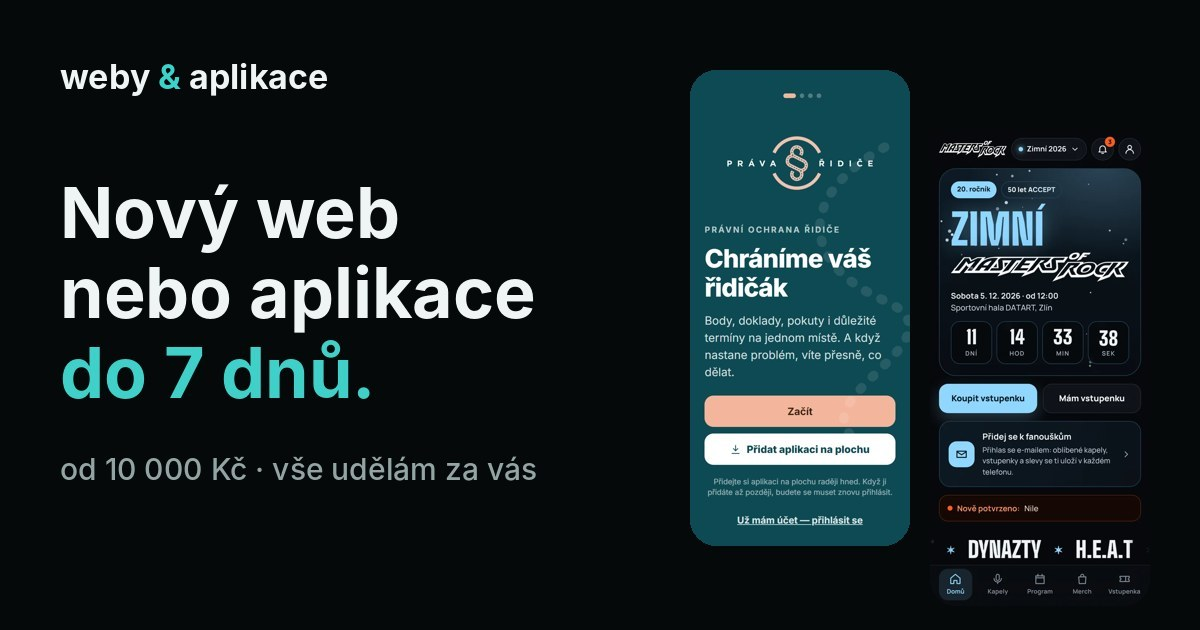
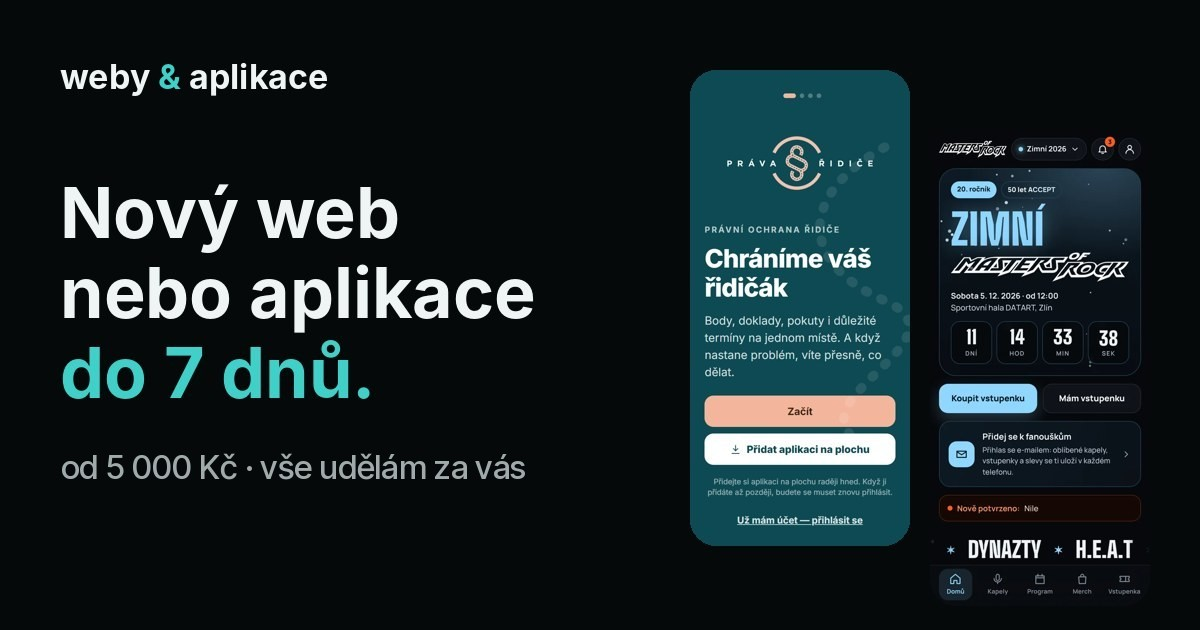
Ceny od 5 000 Kč, rozpis jednoduchý/standardní, SEO titulky a obrázek pro sdílení
Claude-Session: https://claude.ai/code/session_01XGmG35iuPCzjPgGgZyDaJQ

Changed region(s): [[0.0308, 0.7238, 0.4625, 0.7841]]

diff --git a/cenik.html b/cenik.html
@@ -3,8 +3,8 @@
 <head>
 <meta charset="utf-8">
 <meta name="viewport" content="width=device-width, initial-scale=1">
-<title>Ceník webů a PWA aplikací od 10 000 Kč | Weby a aplikace</title>
-<meta name="description" content="Nový web i PWA aplikace od 10 000 Kč, cenu znáte předem. Správa a úpravy po spuštění, postup tvorby do 7 dnů a odpovědi na časté otázky.">
+<title>Ceník: levný web a PWA aplikace od 5 000 Kč | Weby a aplikace</title>
+<meta name="description" content="Kolik stojí web nebo PWA aplikace? Jednoduchý web nebo aplikace od 5 000 Kč, standardní obvykle 10 000 Kč. Cenu znáte předem. Správa, postup a časté otázky.">
 <meta name="author" content="Nela Mizera">
 <link rel="canonical" href="https://webyaplikace.cz/cenik.html">
 <meta property="og:url" content="https://webyaplikace.cz/cenik.html">
@@ -13,7 +13,7 @@
 <meta name="robots" content="index, follow, max-image-preview:large">
 <meta property="og:type" content="website">
 <meta property="og:locale" content="cs_CZ">
-<meta property="og:title" content="Ceník webů a PWA aplikací od 10 000 Kč | Weby a aplikace">
+<meta property="og:title" content="Ceník: levný web a PWA aplikace od 5 000 Kč | Weby a aplikace">
 <meta property="og:description" content="Weby a aplikace na míru, které vypadají draze a stojí rozumně. Ukázky: aplikace Práva řidiče, Sonia Edde, Mizerná (nejen) artritida, Masters of Rock, Revma deník.">
 <meta property="og:image" content="https://webyaplikace.cz/img/og.jpg">
 <meta property="og:image:width" content="1200">
@@ -454,6 +454,8 @@ h1.h2{font-size:clamp(38px,6vw,80px)}
 .ft-chips span.more{background:transparent;color:var(--ink);border:1px dashed #ffffff44;box-shadow:none}
 @media(max-width:900px){.picks,.trio{grid-template-columns:1fr}.mini-steps{grid-template-columns:repeat(2,minmax(0,1fr))}}
 @media(max-width:520px){.mini-steps{grid-template-columns:1fr}.mini-steps li{display:grid;grid-template-columns:38px 1fr;gap:0 14px;padding:18px}.mini-steps b{grid-row:span 2;margin:0}}
+.tiers{display:grid;gap:8px;margin:18px 0 6px}.tiers div{display:flex;justify-content:space-between;align-items:center;gap:14px;padding:14px 16px;border-radius:16px;background:#ffffff08;border:1px solid var(--line)}.tiers span{display:flex;flex-direction:column;gap:2px}.tiers b{font-size:16px}.tiers small{color:var(--mute);font-size:13.5px;line-height:1.35}.tiers em{font-style:normal;font-weight:700;color:var(--teal);white-space:nowrap;font-size:15px}
+@media(max-width:420px){.tiers div{flex-direction:column;align-items:flex-start}}
 </style>
 <script type="application/ld+json">
 {
@@ -464,10 +466,10 @@ h1.h2{font-size:clamp(38px,6vw,80px)}
    "mainEntity": [
     {
      "@type": "Question",
-     "name": "Kolik stojí nový web?",
+     "name": "Kolik stojí nový web nebo aplikace?",
      "acceptedAnswer": {
       "@type": "Answer",
-      "text": "Nový web i PWA aplikace začínají na 10 000 Kč. Přesnou cenu znáte předem, ještě než začnu pracovat."
+      "text": "Jednoduchý web nebo jednoduchá aplikace začínají na 5 000 Kč, standardní web i aplikace stojí obvykle kolem 10 000 Kč. Přesnou cenu znáte předem, ještě než začnu pracovat."
      }
     },
     {
@@ -528,7 +530,7 @@ h1.h2{font-size:clamp(38px,6vw,80px)}
     },
     {
      "@type": "Question",
-     "name": "Děláte weby a aplikace i pro neziskové organizace?",
+     "name": "Děláte web nebo aplikaci i zdarma?",
      "acceptedAnswer": {
       "@type": "Answer",
       "text": "Ano. Neziskovým organizacím, pacientským spolkům a projektům, které pomáhají lidem, udělám web nebo aplikaci jen za náklady, nebo i zdarma."
@@ -586,16 +588,16 @@ h1.h2{font-size:clamp(38px,6vw,80px)}
       <div class="plan star rv"><div>
         <span class="badge">Nejčastější volba</span>
         <h3 style="margin-top:20px">Nový web</h3>
-        <div class="big"><small>od </small>10&nbsp;000&nbsp;Kč</div>
+        <div class="big"><small>od </small>5&nbsp;000&nbsp;Kč</div>
         <p class="sub">Web na míru pro firmu, živnost, osobní značku nebo projekt.</p>
-        <ul class="checks"><li>Design, texty a animace</li><li>Mobilní verze a technické SEO</li><li>Poptávkový nebo objednávkový formulář</li><li>Hotovo do 7 dnů od odsouhlasení</li></ul>
+        <div class="tiers"><div><span><b>Jednoduchý web</b><small>Jednostránkový web nebo vizitka, kontakt, mobilní verze</small></span><em>od 5&nbsp;000&nbsp;Kč</em></div><div><span><b>Standardní web</b><small>Více stránek, formulář, animace, SEO</small></span><em>obvykle 10&nbsp;000&nbsp;Kč</em></div></div><ul class="checks"><li>Design, texty a animace</li><li>Mobilní verze a technické SEO</li><li>Poptávkový nebo objednávkový formulář</li><li>Hotovo do 7 dnů od odsouhlasení</li></ul>
       </div></div>
       <div class="plan rv"><div>
         <span class="badge" style="background:var(--teal);color:#031312">Bez App Storu</span>
         <h3 style="margin-top:20px">PWA aplikace</h3>
-        <div class="big"><small>od </small>10&nbsp;000&nbsp;Kč</div>
+        <div class="big"><small>od </small>5&nbsp;000&nbsp;Kč</div>
         <p class="sub">Mobilní aplikace pro iPhone i Android, instalace přímo z webu.</p>
-        <ul class="checks"><li>Ikona na ploše telefonu</li><li>Offline režim a připomínky</li><li>Okamžité aktualizace bez schvalování</li><li>Hotovo do 7 dnů od odsouhlasení</li></ul>
+        <div class="tiers"><div><span><b>Jednoduchá aplikace</b><small>Jedna hlavní funkce, třeba věrnostní karta nebo rezervace</small></span><em>od 5&nbsp;000&nbsp;Kč</em></div><div><span><b>Standardní aplikace</b><small>Více funkcí, upozornění, offline režim</small></span><em>obvykle 10&nbsp;000&nbsp;Kč</em></div></div><ul class="checks"><li>Ikona na ploše telefonu</li><li>Offline režim a připomínky</li><li>Okamžité aktualizace bez schvalování</li><li>Hotovo do 7 dnů od odsouhlasení</li></ul>
       </div></div>
     </div>
     <p class="rv" style="color:var(--mute);margin-top:22px;font-size:15px">Konečná cena záleží na rozsahu: počtu stránek, funkcích (rezervace, objednávky, přihlášení) a na tom, jestli dodáte texty a fotky, nebo s nimi pomůžu.</p>
@@ -638,7 +640,7 @@ h1.h2{font-size:clamp(38px,6vw,80px)}
   <div class="wrap faqgrid">
     <div><h2 id="h-faq" class="rv">Časté<br>otázky</h2><p class="lede rv" style="margin-top:20px">Nenašli jste odpověď? Napište mi, ráda poradím.</p></div>
     <div class="faq">
-      <details class="rv"><summary>Kolik stojí nový web?</summary><p>Nový web i PWA aplikace začínají na 10&nbsp;000&nbsp;Kč. Přesnou cenu znáte předem, ještě než začnu pracovat.</p></details>
+      <details class="rv"><summary>Kolik stojí nový web nebo aplikace?</summary><p>Jednoduchý web nebo jednoduchá aplikace začínají na 5 000 Kč, standardní web i aplikace stojí obvykle kolem 10 000 Kč. Přesnou cenu znáte předem, ještě než začnu pracovat.</p></details>
       <details class="rv"><summary>Jak rychle bude web hotový?</summary><p>Do 7 dnů od odsouhlasení návrhu a dodání podkladů (texty, fotky, logo). Proto si všechno ujasníme předem, aby se pak jen stavělo.</p></details>
       <details class="rv"><summary>Co je PWA aplikace?</summary><p>Webová aplikace, kterou si lidé nainstalují na plochu telefonu přímo z prohlížeče, bez App Storu a Google Play. Funguje na iPhonu i Androidu, umí pracovat offline a posílat připomínky.</p></details>
       <details class="rv"><summary>Je levný web horší než drahý?</summary><p>Nemusí být. Nestavím ze šablon s placenými pluginy, programuji přímo a rychle. Výsledek bývá rychlejší a modernější než běžný web ze stavebnice.</p></details>
@@ -668,7 +670,7 @@ h1.h2{font-size:clamp(38px,6vw,80px)}
 
 <footer>
   <div class="wrap">
-    <div><b>Weby &amp; aplikace</b>Nela Mizera, MBA. Tvorba webů a PWA aplikací na míru pro živnostníky a malé firmy. Nový web a PWA aplikace od 10&nbsp;000&nbsp;Kč, hotovo do 7 dnů od odsouhlasení.</div>
+    <div><b>Weby &amp; aplikace</b>Nela Mizera, MBA. Tvorba webů a PWA aplikací na míru pro živnostníky a malé firmy. Jednoduchý web nebo aplikace od 5 000 Kč, hotovo do 7 dnů od odsouhlasení.</div>
     <div><b>Služby</b><ul><li><a href="sluzby.html">Nový web na míru</a></li><li><a href="cenik.html">Ceník a správa</a></li><li><a href="sluzby.html#pwa">PWA aplikace</a></li><li><a href="funkce.html">Funkce aplikací</a></li></ul></div>
     <div><b>Navigace</b><ul><li><a href="ukazky.html">Ukázky</a></li><li><a href="o-mne.html">O mně</a></li><li><a href="cenik.html#faq">Časté otázky</a></li><li><a href="kontakt.html">Kontakt</a></li><li><a href="podminky.html">Obchodní podmínky</a></li><li><a href="podminky.html#osobni-udaje">Ochrana osobních údajů</a></li></ul></div>
   </div>

diff --git a/index.html b/index.html
@@ -3,8 +3,8 @@
 <head>
 <meta charset="utf-8">
 <meta name="viewport" content="width=device-width, initial-scale=1">
-<title>Nový web a PWA aplikace do 7 dnů od 10 000 Kč | Weby a aplikace</title>
-<meta name="description" content="Tvorba webových stránek a PWA aplikací na míru. Nový web nebo mobilní aplikace bez App Storu hotové do 7 dnů od odsouhlasení, cena od 10 000 Kč. Pro živnostníky a malé firmy.">
+<title>Levný a moderní web, PWA aplikace od 5 000 Kč | Weby a aplikace</title>
+<meta name="description" content="Tvorba moderních a levných webů a PWA aplikací na míru. Jednoduchý web nebo aplikace od 5 000 Kč, standardní kolem 10 000 Kč, hotovo do 7 dnů. Pro živnostníky, malé firmy i neziskovky.">
 <meta name="author" content="Nela Mizera">
 <link rel="canonical" href="https://webyaplikace.cz/">
 <meta property="og:url" content="https://webyaplikace.cz/">
@@ -13,7 +13,7 @@
 <meta name="robots" content="index, follow, max-image-preview:large">
 <meta property="og:type" content="website">
 <meta property="og:locale" content="cs_CZ">
-<meta property="og:title" content="Nový web a PWA aplikace do 7 dnů od 10 000 Kč | Weby a aplikace">
+<meta property="og:title" content="Levný a moderní web, PWA aplikace od 5 000 Kč | Weby a aplikace">
 <meta property="og:description" content="Weby a aplikace na míru, které vypadají draze a stojí rozumně. Ukázky: aplikace Práva řidiče, Sonia Edde, Mizerná (nejen) artritida, Masters of Rock, Revma deník.">
 <meta property="og:image" content="https://webyaplikace.cz/img/og.jpg">
 <meta property="og:image:width" content="1200">
@@ -48,9 +48,9 @@
    "@type": "ProfessionalService",
    "@id": "https://webyaplikace.cz/#sluzba",
    "name": "Weby a aplikace – Nela Mizera",
-   "description": "Tvorba nových webů a PWA aplikací na míru. Dodání do 7 dnů od odsouhlasení projektu, cena od 10 000 Kč.",
+   "description": "Tvorba moderních a levných webů a PWA aplikací na míru. Dodání do 7 dnů od odsouhlasení projektu, jednoduchý web nebo aplikace od 5 000 Kč.",
    "image": "https://webyaplikace.cz/img/og.jpg",
-   "priceRange": "od 10 000 Kč",
+   "priceRange": "od 5 000 Kč",
    "areaServed": [
     {
      "@type": "City",
@@ -86,7 +86,7 @@
       },
       "priceSpecification": {
        "@type": "PriceSpecification",
-       "minPrice": 10000,
+       "minPrice": 5000,
        "priceCurrency": "CZK"
       }
      },
@@ -98,7 +98,7 @@
       },
       "priceSpecification": {
        "@type": "PriceSpecification",
-       "minPrice": 10000,
+       "minPrice": 5000,
        "priceCurrency": "CZK"
       }
      }
@@ -568,9 +568,9 @@ h1.h2{font-size:clamp(38px,6vw,80px)}
 <main>
 <section class="hero wrap" aria-labelledby="title">
   <h1 id="title"><span class="ln"><span>Nový web</span></span><span class="ln"><span>nebo aplikace</span></span><span class="ln"><span class="grad">do 7 dnů.</span></span></h1>
-  <p class="lede rv"><span class="rot">Pro vás postavím <b id="rot">web na míru</b></span>Od 10 000 Kč, s animacemi a SEO v základu, aby vás zákazníci našli.</p>
+  <p class="lede rv"><span class="rot">Pro vás postavím <b id="rot">web na míru</b></span>Jednoduchý web nebo aplikace od 5 000 Kč, s animacemi a SEO v základu, aby vás zákazníci našli.</p>
   <div class="cta rv"><a class="btn teal mag" href="kontakt.html">Nezávazná poptávka →</a><a class="btn ghost mag" href="ukazky.html">Prohlédnout ukázky</a></div>
-  <ul class="pills rv"><li><b>od 10&nbsp;000&nbsp;Kč</b> web i aplikace</li><li><b>vše udělám</b> za vás</li><li><b>do 7 dnů</b> od odsouhlasení</li><li><b>skoro 10 let</b> v IT</li></ul>
+  <ul class="pills rv"><li><b>od 5 000 Kč</b> web i aplikace</li><li><b>vše udělám</b> za vás</li><li><b>do 7 dnů</b> od odsouhlasení</li><li><b>skoro 10 let</b> v IT</li></ul>
 
   <div class="persp">
     <div class="stage" id="stage" role="img" aria-label="Ukázky projektů: web Sonia Edde na notebooku, aplikace Práva řidiče a Masters of Rock na telefonech">
@@ -589,7 +589,7 @@ h1.h2{font-size:clamp(38px,6vw,80px)}
     <div class="stat"><b><span class="count" data-to="6">6</span> let</b><span>jsem pracovala v IT</span></div>
     <div class="stat"><b><span class="count" data-to="4">4</span>. rok</b><span>vedu provoz advokátní kanceláře a zastřešuji veškeré IT</span></div>
     <div class="stat"><b><span class="count" data-to="7">7</span> dní</b><span>od odsouhlasení po spuštění</span></div>
-    <div class="stat"><b><span class="count" data-to="10">10</span>&nbsp;000</b><span>korun, od této ceny začínám</span></div>
+    <div class="stat"><b><span class="count" data-to="5">5</span>&nbsp;000</b><span>korun, od této ceny začínám</span></div>
   </div>
 </section>
 
@@ -609,8 +609,8 @@ h1.h2{font-size:clamp(38px,6vw,80px)}
   <div class="wrap">
     <div class="head"><h2 id="h-umim" class="rv">Co pro vás<br><span class="grad">udělám.</span></h2></div>
     <div class="trio">
-      <a class="go rv" href="sluzby.html"><span class="go-n">01</span><h3>Nový web</h3><p>Web na míru pro firmu, živnost nebo osobní značku. Design, texty, mobil i SEO.</p><span class="go-a">od 10&nbsp;000&nbsp;Kč →</span></a>
-      <a class="go rv" href="sluzby.html#pwa"><span class="go-n">02</span><h3>PWA aplikace</h3><p>Mobilní aplikace pro iPhone i Android, instalace přímo z webu. Bez App Storu.</p><span class="go-a">od 10&nbsp;000&nbsp;Kč →</span></a>
+      <a class="go rv" href="sluzby.html"><span class="go-n">01</span><h3>Nový web</h3><p>Web na míru pro firmu, živnost nebo osobní značku. Design, texty, mobil i SEO.</p><span class="go-a">od 5 000 Kč →</span></a>
+      <a class="go rv" href="sluzby.html#pwa"><span class="go-n">02</span><h3>PWA aplikace</h3><p>Mobilní aplikace pro iPhone i Android, instalace přímo z webu. Bez App Storu.</p><span class="go-a">od 5 000 Kč →</span></a>
       <a class="go rv" href="cenik.html#sprava"><span class="go-n">03</span><h3>Správa a úpravy</h3><p>Po spuštění nezmizím. Úpravy, zálohy, novinky i texty za vás.</p><span class="go-a">Jak to funguje →</span></a>
     </div>
   </div>
@@ -654,7 +654,7 @@ h1.h2{font-size:clamp(38px,6vw,80px)}
 
 <footer>
   <div class="wrap">
-    <div><b>Weby &amp; aplikace</b>Nela Mizera, MBA. Tvorba webů a PWA aplikací na míru pro živnostníky a malé firmy. Nový web a PWA aplikace od 10&nbsp;000&nbsp;Kč, hotovo do 7 dnů od odsouhlasení.</div>
+    <div><b>Weby &amp; aplikace</b>Nela Mizera, MBA. Tvorba webů a PWA aplikací na míru pro živnostníky a malé firmy. Jednoduchý web nebo aplikace od 5 000 Kč, hotovo do 7 dnů od odsouhlasení.</div>
     <div><b>Služby</b><ul><li><a href="sluzby.html">Nový web na míru</a></li><li><a href="cenik.html">Ceník a správa</a></li><li><a href="sluzby.html#pwa">PWA aplikace</a></li><li><a href="funkce.html">Funkce aplikací</a></li></ul></div>
     <div><b>Navigace</b><ul><li><a href="ukazky.html">Ukázky</a></li><li><a href="o-mne.html">O mně</a></li><li><a href="cenik.html#faq">Časté otázky</a></li><li><a href="kontakt.html">Kontakt</a></li><li><a href="podminky.html">Obchodní podmínky</a></li><li><a href="podminky.html#osobni-udaje">Ochrana osobních údajů</a></li></ul></div>
   </div>

diff --git a/sluzby.html b/sluzby.html
@@ -3,7 +3,7 @@
 <head>
 <meta charset="utf-8">
 <meta name="viewport" content="width=device-width, initial-scale=1">
-<title>Tvorba webu a PWA aplikací na míru | Weby a aplikace</title>
+<title>Tvorba moderních webů a PWA aplikací levně a na míru | Weby a aplikace</title>
 <meta name="description" content="Nový web na míru, PWA aplikace bez App Storu, SEO v základu, animace a offline režim. Programuji přímo, bez šablon, proto rychle a cenově dostupně.">
 <meta name="author" content="Nela Mizera">
 <link rel="canonical" href="https://webyaplikace.cz/sluzby.html">
@@ -13,7 +13,7 @@
 <meta name="robots" content="index, follow, max-image-preview:large">
 <meta property="og:type" content="website">
 <meta property="og:locale" content="cs_CZ">
-<meta property="og:title" content="Tvorba webu a PWA aplikací na míru | Weby a aplikace">
+<meta property="og:title" content="Tvorba moderních webů a PWA aplikací levně a na míru | Weby a aplikace">
 <meta property="og:description" content="Weby a aplikace na míru, které vypadají draze a stojí rozumně. Ukázky: aplikace Práva řidiče, Sonia Edde, Mizerná (nejen) artritida, Masters of Rock, Revma deník.">
 <meta property="og:image" content="https://webyaplikace.cz/img/og.jpg">
 <meta property="og:image:width" content="1200">
@@ -527,7 +527,7 @@ h1.h2{font-size:clamp(38px,6vw,80px)}
     <div class="three">
       <div class="opt rv"><div class="tag">Stavebnice typu Webnode nebo Wix</div><h3>Uděláte si to sami</h3><ul><li>Desítky hodin skládání bloků, než to vypadá, jak chcete</li><li>Měsíční předplatné za vyšší tarif</li><li>Design omezený šablonou, web vypadá jako tisíce dalších</li><li>Texty, fotky i SEO řešíte sami</li></ul></div>
       <div class="opt rv"><div class="tag">Agentura nebo studio</div><h3>Udělají to za vás, draze a dlouho</h3><ul><li>Web na míru za desítky až stovky tisíc korun</li><li>Schůzky, briefy a čekání týdny až měsíce</li><li>Každá drobná změna se platí zvlášť</li><li>Často zůstanete závislí na jejich správě</li></ul></div>
-      <div class="opt me rv"><div class="tag">Se mnou</div><h3>Udělám to za vás rychle, kvalitně a levně</h3><ul><li>Od 10&nbsp;000&nbsp;Kč, cenu znáte předem</li><li>Hotovo do 7 dnů od odsouhlasení</li><li>Design jen pro vás, žádná šablona</li><li>Texty, SEO i spuštění zařídím</li><li>Web, doména i kód patří vám</li></ul></div>
+      <div class="opt me rv"><div class="tag">Se mnou</div><h3>Udělám to za vás rychle, kvalitně a levně</h3><ul><li>Od 5 000 Kč, cenu znáte předem</li><li>Hotovo do 7 dnů od odsouhlasení</li><li>Design jen pro vás, žádná šablona</li><li>Texty, SEO i spuštění zařídím</li><li>Web, doména i kód patří vám</li></ul></div>
     </div>
     <div class="idea rv">
       <div><h3>Stačí mi ukázat, jak si to představujete</h3><p>Pár vět, fotky, logo nebo odkazy na weby, které se vám líbí. Nemusíte nic kreslit ani umět. Já z toho poskládám web přesně podle vás a vy jen řeknete, jestli se líbí.</p></div>
@@ -558,7 +558,7 @@ h1.h2{font-size:clamp(38px,6vw,80px)}
     <h2 id="h-seo" class="rv" style="font-size:clamp(30px,3.6vw,48px);margin-bottom:clamp(30px,4vw,50px)">Proč nový web právě ode mě</h2>
     <div class="seo">
       <div class="rv"><h3>Nový web, který prodává</h3><p>Tvorba webových stránek u mě nezačíná šablonou, ale vaším zákazníkem. Nový web postavím tak, aby návštěvník hned pochopil, co nabízíte, a rovnou poslal poptávku nebo objednávku. Moderní design, rychlé načítání a texty psané pro lidi i pro Google.</p></div>
-      <div class="rv"><h3>Levný web bez kompromisů</h3><p>Levný web nemusí znamenat web ze stavebnice. Cena od 10&nbsp;000&nbsp;Kč je možná proto, že nepotřebuji drahé šablony ani placené pluginy a pracuji rychle. Dostanete web na míru, který vypadá draze, načítá se bleskově a patří jen vám.</p></div>
+      <div class="rv"><h3>Levný web bez kompromisů</h3><p>Levný web nemusí znamenat web ze stavebnice. Cena od 5 000 Kč je možná proto, že nepotřebuji drahé šablony ani placené pluginy a pracuji rychle. Dostanete web na míru, který vypadá draze, načítá se bleskově a patří jen vám.</p></div>
       <div class="rv"><h3>PWA aplikace místo drahé appky</h3><p>Klasická mobilní aplikace pro iPhone a Android běžně stojí stovky tisíc a obchody k tomu chtějí poplatky a provize. PWA aplikace zvládne většinu toho samého: ikonu na ploše, offline režim i připomínky. Ideální pro rezervace, věrnostní programy, festivaly, kurzy nebo zdravotní deníky.</p></div>
     </div>
   </div>
@@ -577,7 +577,7 @@ h1.h2{font-size:clamp(38px,6vw,80px)}
 
 <footer>
   <div class="wrap">
-    <div><b>Weby &amp; aplikace</b>Nela Mizera, MBA. Tvorba webů a PWA aplikací na míru pro živnostníky a malé firmy. Nový web a PWA aplikace od 10&nbsp;000&nbsp;Kč, hotovo do 7 dnů od odsouhlasení.</div>
+    <div><b>Weby &amp; aplikace</b>Nela Mizera, MBA. Tvorba webů a PWA aplikací na míru pro živnostníky a malé firmy. Jednoduchý web nebo aplikace od 5 000 Kč, hotovo do 7 dnů od odsouhlasení.</div>
     <div><b>Služby</b><ul><li><a href="sluzby.html">Nový web na míru</a></li><li><a href="cenik.html">Ceník a správa</a></li><li><a href="sluzby.html#pwa">PWA aplikace</a></li><li><a href="funkce.html">Funkce aplikací</a></li></ul></div>
     <div><b>Navigace</b><ul><li><a href="ukazky.html">Ukázky</a></li><li><a href="o-mne.html">O mně</a></li><li><a href="cenik.html#faq">Časté otázky</a></li><li><a href="kontakt.html">Kontakt</a></li><li><a href="podminky.html">Obchodní podmínky</a></li><li><a href="podminky.html#osobni-udaje">Ochrana osobních údajů</a></li></ul></div>
   </div>

diff --git a/404.html b/404.html
@@ -481,7 +481,7 @@ h1.h2{font-size:clamp(38px,6vw,80px)}
 
 <footer>
   <div class="wrap">
-    <div><b>Weby &amp; aplikace</b>Nela Mizera, MBA. Tvorba webů a PWA aplikací na míru pro živnostníky a malé firmy. Nový web a PWA aplikace od 10&nbsp;000&nbsp;Kč, hotovo do 7 dnů od odsouhlasení.</div>
+    <div><b>Weby &amp; aplikace</b>Nela Mizera, MBA. Tvorba webů a PWA aplikací na míru pro živnostníky a malé firmy. Jednoduchý web nebo aplikace od 5 000 Kč, hotovo do 7 dnů od odsouhlasení.</div>
     <div><b>Služby</b><ul><li><a href="sluzby.html">Nový web na míru</a></li><li><a href="cenik.html">Ceník a správa</a></li><li><a href="sluzby.html#pwa">PWA aplikace</a></li><li><a href="funkce.html">Funkce aplikací</a></li></ul></div>
     <div><b>Navigace</b><ul><li><a href="ukazky.html">Ukázky</a></li><li><a href="o-mne.html">O mně</a></li><li><a href="cenik.html#faq">Časté otázky</a></li><li><a href="kontakt.html">Kontakt</a></li><li><a href="podminky.html">Obchodní podmínky</a></li><li><a href="podminky.html#osobni-udaje">Ochrana osobních údajů</a></li></ul></div>
   </div>

diff --git a/kontakt.html b/kontakt.html
@@ -519,7 +519,7 @@ h1.h2{font-size:clamp(38px,6vw,80px)}
 
 <footer>
   <div class="wrap">
-    <div><b>Weby &amp; aplikace</b>Nela Mizera, MBA. Tvorba webů a PWA aplikací na míru pro živnostníky a malé firmy. Nový web a PWA aplikace od 10&nbsp;000&nbsp;Kč, hotovo do 7 dnů od odsouhlasení.</div>
+    <div><b>Weby &amp; aplikace</b>Nela Mizera, MBA. Tvorba webů a PWA aplikací na míru pro živnostníky a malé firmy. Jednoduchý web nebo aplikace od 5 000 Kč, hotovo do 7 dnů od odsouhlasení.</div>
     <div><b>Služby</b><ul><li><a href="sluzby.html">Nový web na míru</a></li><li><a href="cenik.html">Ceník a správa</a></li><li><a href="sluzby.html#pwa">PWA aplikace</a></li><li><a href="funkce.html">Funkce aplikací</a></li></ul></div>
     <div><b>Navigace</b><ul><li><a href="ukazky.html">Ukázky</a></li><li><a href="o-mne.html">O mně</a></li><li><a href="cenik.html#faq">Časté otázky</a></li><li><a href="kontakt.html">Kontakt</a></li><li><a href="podminky.html">Obchodní podmínky</a></li><li><a href="podminky.html#osobni-udaje">Ochrana osobních údajů</a></li></ul></div>
   </div>

diff --git a/o-mne.html b/o-mne.html
@@ -501,7 +501,7 @@ h1.h2{font-size:clamp(38px,6vw,80px)}
 
 <footer>
   <div class="wrap">
-    <div><b>Weby &amp; aplikace</b>Nela Mizera, MBA. Tvorba webů a PWA aplikací na míru pro živnostníky a malé firmy. Nový web a PWA aplikace od 10&nbsp;000&nbsp;Kč, hotovo do 7 dnů od odsouhlasení.</div>
+    <div><b>Weby &amp; aplikace</b>Nela Mizera, MBA. Tvorba webů a PWA aplikací na míru pro živnostníky a malé firmy. Jednoduchý web nebo aplikace od 5 000 Kč, hotovo do 7 dnů od odsouhlasení.</div>
     <div><b>Služby</b><ul><li><a href="sluzby.html">Nový web na míru</a></li><li><a href="cenik.html">Ceník a správa</a></li><li><a href="sluzby.html#pwa">PWA aplikace</a></li><li><a href="funkce.html">Funkce aplikací</a></li></ul></div>
     <div><b>Navigace</b><ul><li><a href="ukazky.html">Ukázky</a></li><li><a href="o-mne.html">O mně</a></li><li><a href="cenik.html#faq">Časté otázky</a></li><li><a href="kontakt.html">Kontakt</a></li><li><a href="podminky.html">Obchodní podmínky</a></li><li><a href="podminky.html#osobni-udaje">Ochrana osobních údajů</a></li></ul></div>
   </div>

diff --git a/ukazky.html b/ukazky.html
@@ -561,7 +561,7 @@ h1.h2{font-size:clamp(38px,6vw,80px)}
 
 <footer>
   <div class="wrap">
-    <div><b>Weby &amp; aplikace</b>Nela Mizera, MBA. Tvorba webů a PWA aplikací na míru pro živnostníky a malé firmy. Nový web a PWA aplikace od 10&nbsp;000&nbsp;Kč, hotovo do 7 dnů od odsouhlasení.</div>
+    <div><b>Weby &amp; aplikace</b>Nela Mizera, MBA. Tvorba webů a PWA aplikací na míru pro živnostníky a malé firmy. Jednoduchý web nebo aplikace od 5 000 Kč, hotovo do 7 dnů od odsouhlasení.</div>
     <div><b>Služby</b><ul><li><a href="sluzby.html">Nový web na míru</a></li><li><a href="cenik.html">Ceník a správa</a></li><li><a href="sluzby.html#pwa">PWA aplikace</a></li><li><a href="funkce.html">Funkce aplikací</a></li></ul></div>
     <div><b>Navigace</b><ul><li><a href="ukazky.html">Ukázky</a></li><li><a href="o-mne.html">O mně</a></li><li><a href="cenik.html#faq">Časté otázky</a></li><li><a href="kontakt.html">Kontakt</a></li><li><a href="podminky.html">Obchodní podmínky</a></li><li><a href="podminky.html#osobni-udaje">Ochrana osobních údajů</a></li></ul></div>
   </div>

diff --git a/sw.js b/sw.js
@@ -1,4 +1,4 @@
-const CACHE = 'weby-aplikace-v2';
+const CACHE = 'weby-aplikace-v3';
 const CORE = ['./', 'index.html', 'podminky.html', 'ukazky.html', 'sluzby.html', 'funkce.html', 'cenik.html', 'o-mne.html', 'kontakt.html', 'manifest.webmanifest', 'img/icon-192.png', 'img/icon-512.png', 'img/sonia-desk.webp', 'img/pr-uvod.webp', 'img/mor-app1.webp'];
 self.addEventListener('install', e => { e.waitUntil(caches.open(CACHE).then(c => c.addAll(CORE)).then(() => self.skipWaiting())); });
 self.addEventListener('activate', e => { e.waitUntil(caches.keys().then(ks => Promise.all(ks.filter(k => k !== CACHE).map(k => caches.delete(k)))).then(() => self.clients.claim())); });

diff --git a/funkce.html b/funkce.html
@@ -439,7 +439,7 @@ main.wrap{padding-top:clamp(60px,8vw,90px)}
 
   <section class="end">
     <h2>Líbí se vám něco? <span class="grad">Postavím vám to.</span></h2>
-    <p>Funkce se dají libovolně kombinovat. Aplikace s věrnostní kartou a rezervacemi stojí od 10&nbsp;000&nbsp;Kč a je hotová do 7&nbsp;dnů od odsouhlasení.</p>
+    <p>Funkce se dají libovolně kombinovat. Jednoduchá aplikace s jednou funkcí stojí od 5&nbsp;000&nbsp;Kč, aplikace s více funkcemi obvykle kolem 10&nbsp;000&nbsp;Kč. Hotovo do 7&nbsp;dnů od odsouhlasení.</p>
     <a class="btn" href="kontakt.html" id="endBtn">Chci nabídku →</a>
   </section>
 </main>
